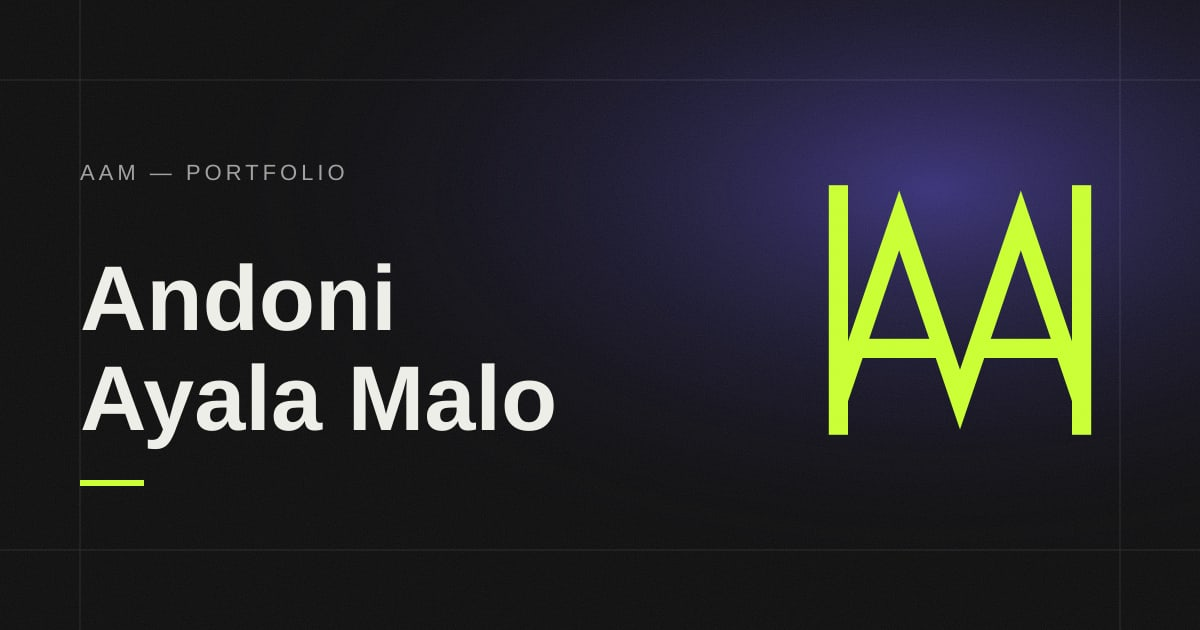
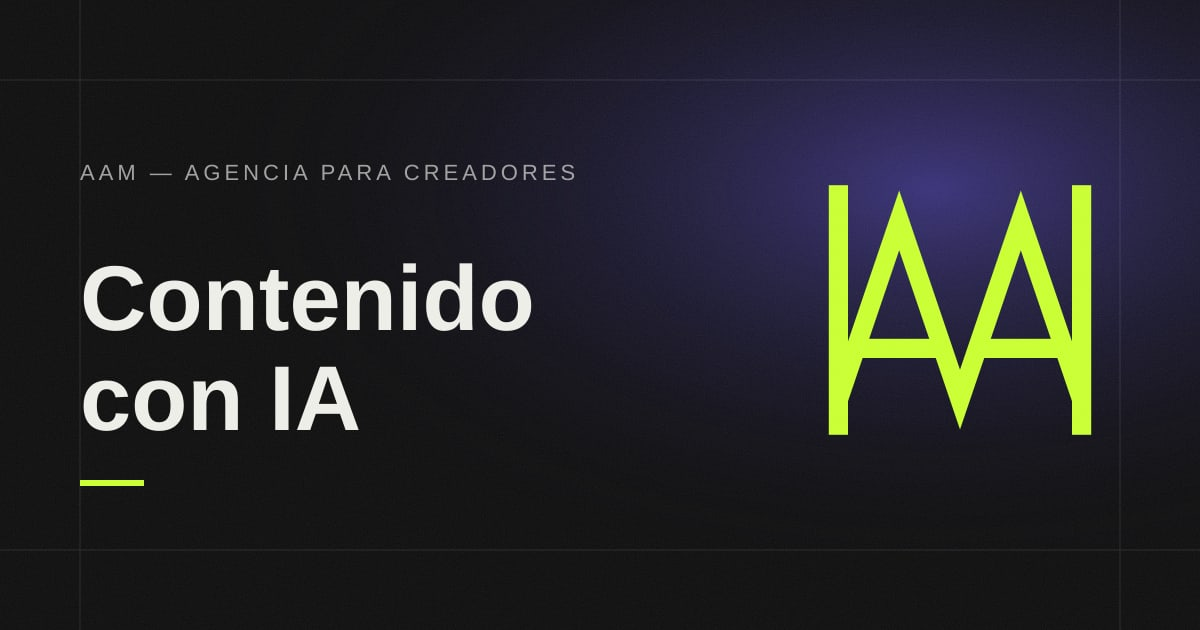
Quitar el nombre personal: la marca AAM pasa a ser la protagonista
El titular del inicio muestra AAM (configurable con heroTitle en site.json).
SEO, datos estructurados (Organization), precarga, pie, manifest e imagen OG
ya no incluyen el nombre.

Claude-Session: https://claude.ai/code/session_01SJEvXJYnqRX6bnZZkMnP75

Changed region(s): [[0.0617, 0.573, 0.4625, 0.7238], [0.0617, 0.4222, 0.4625, 0.5429], [0.1542, 0.2413, 0.4625, 0.3016]]

diff --git a/aam/src/content.config.ts b/aam/src/content.config.ts
@@ -71,7 +71,7 @@ const site = defineCollection({
   }),
   schema: ({ image }) =>
     z.object({
-      name: z.string().min(1),
+      heroTitle: z.array(z.string().min(1)).min(1, 'Añade al menos una línea en "heroTitle"'),
       brand: z.string().min(1),
       role: z.string().min(1),
       tagline: z.string().min(1),

diff --git a/aam/README.md b/aam/README.md
@@ -1,6 +1,6 @@
-# AAM — Portfolio de Andoni Ayala Malo
+# AAM — Agencia de contenido con IA para creadores
 
-Web personal construida con **Astro** (sitio estático), **TypeScript**, **Tailwind CSS**, **React** (solo para el formulario de contacto), **GSAP + ScrollTrigger**, **Lenis** y **Three.js** (escena 3D del inicio).
+Web de AAM construida con **Astro** (sitio estático), **TypeScript**, **Tailwind CSS**, **React** (solo para el formulario de contacto), **GSAP + ScrollTrigger**, **Lenis** y **Three.js** (escena 3D del inicio).
 
 > Todo el contenido personal es provisional y está marcado con **`[COMPLETAR]`**.
 > Para encontrar todo lo que falta por rellenar:
@@ -70,7 +70,8 @@ aam/
 
 | Campo | Dónde aparece |
 | --- | --- |
-| `name`, `brand` | Nombre y marca (cabecera, pie, SEO) |
+| `heroTitle` | Titular grande del inicio (una línea por elemento; si es corto, como "AAM", se muestra extra grande) |
+| `brand` | Marca (cabecera, pie, SEO) |
 | `role`, `tagline`, `location`, `availability` | Inicio |
 | `email` | Contacto, menú móvil |
 | `seo.title`, `seo.description` | Título y descripción de la página de inicio en Google/redes |
@@ -86,7 +87,7 @@ aam/
 
 ```json
 "photo": "../assets/images/yo.jpg",
-"photoAlt": "Retrato de Andoni Ayala Malo"
+"photoAlt": "Descripción de la foto"
 ```
 
 Astro la optimiza sola (WebP, varios tamaños, carga diferida). Si no hay foto se muestra un marcador.
